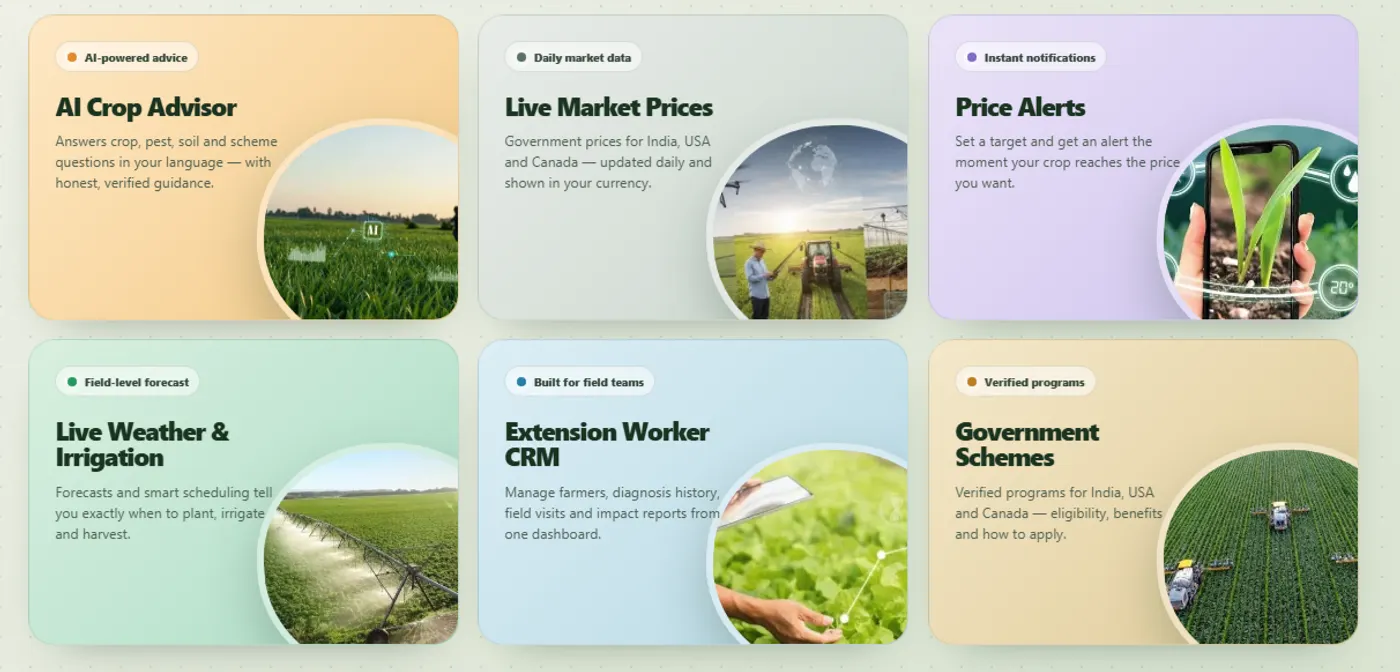
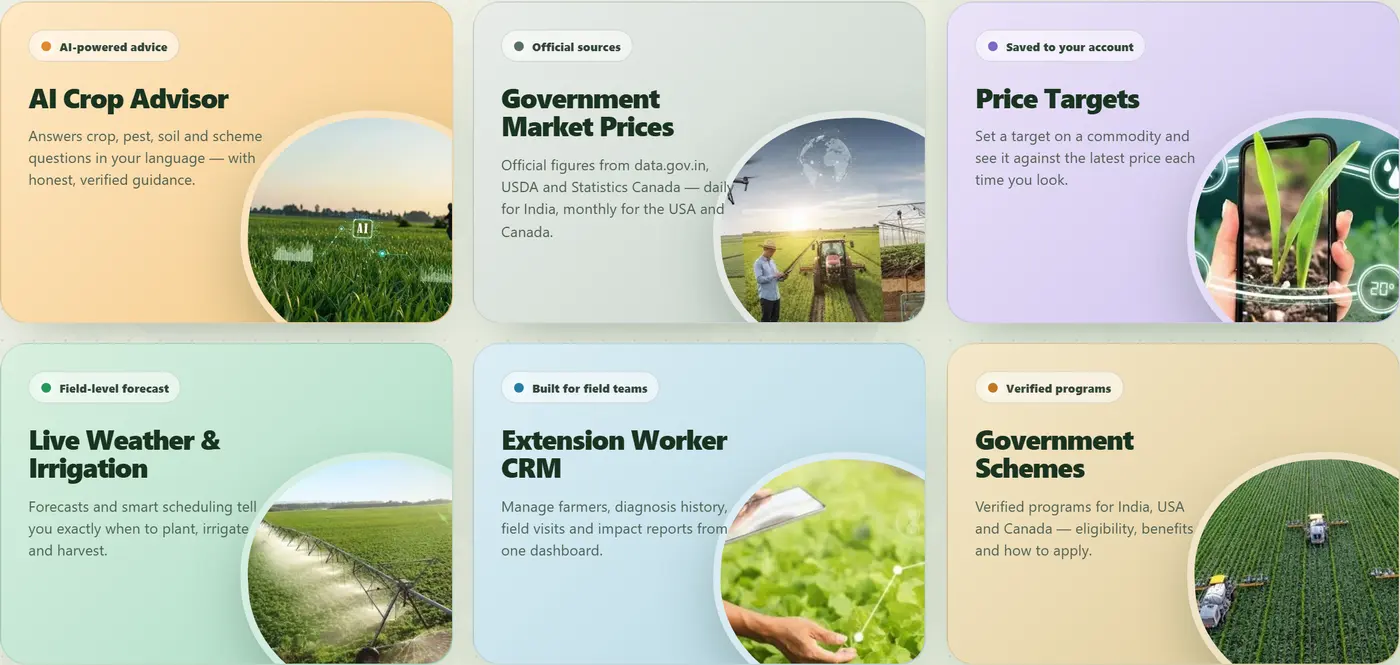
Retake the investors feature grid, and revert my wrong 13 -> 14 language change
Two things, one of them undoing a mistake I shipped this morning.

The feature grid. The investors page showed a September screenshot of
yieldaiglobal.com whose second card read "Live Market Prices", with the chip
"Daily market data" and the body line "Government prices for India, USA and Canada
- updated daily and shown in your currency." That was the last surviving copy of the
claim the newsletter has already retracted, stated more strongly than any text
version, in front of investors.

It could not be fixed by editing the image or rebuilding the cards in HTML. The
caption under it says both images are screenshots of yieldaiglobal.com and "not a
mockup made for this page", so retouching the pixels or hand-building a replacement
would have turned a truthful caption into a false one. Fabricating cleaner evidence
is worse than the claim it would have hidden.

The actual fix was upstream and already done: yieldaiglobal.com now renders that card
as "Government Market Prices", chip "Official sources", body "Official figures from
data.gov.in, USDA and Statistics Canada - daily for India, monthly for the USA and
Canada." So this retakes the screenshot at 1512x950 @2x and replaces the asset. The
card is now correct and states the cadence per country.

Knock-on edits: the grid is 1400x665 rather than 1400x672; the alt text named "Live
Market Prices" and "Price Alerts", where the product now says "Government Market
[…]

diff --git a/app/investors/page.tsx b/app/investors/page.tsx
@@ -546,9 +546,9 @@ export default function InvestorsPage() {
                 src="/images/investors/product-features.webp"
                 srcSet="/images/investors/product-features-800.webp 800w, /images/investors/product-features.webp 1400w"
                 sizes="(max-width: 1024px) 100vw, 60vw"
-                alt="The YieldAI Global feature set: AI Crop Advisor, Live Market Prices, Price Alerts, Live Weather and Irrigation, Extension Worker CRM, and Government Schemes"
+                alt="The YieldAI Global feature set as shown on yieldaiglobal.com: AI Crop Advisor, Government Market Prices (daily for India, monthly for the USA and Canada), Price Targets, Live Weather and Irrigation, Extension Worker CRM, and Government Schemes"
                 width={1400}
-                height={672}
+                height={665}
                 loading="lazy"
                 decoding="async"
                 className="w-full object-cover"
@@ -565,8 +565,9 @@ export default function InvestorsPage() {
               <a href="https://yieldaiglobal.com" target="_blank" rel="noopener noreferrer" className="font-medium text-brand-primary underline-offset-2 hover:underline">
                 yieldaiglobal.com
               </a>{' '}
-              taken in September 2026. They are the product&rsquo;s own published presentation, not an in-app recording
-              and not a mockup made for this page.
+              &mdash; the phone in September 2026, the feature grid in November 2026. They are the product&rsquo;s own
+              published presentation, not an in-app recording and not a mockup made for this page. The feature grid was
+              retaken because the product site corrected a capability title after the first capture.
             </p>
           </Reveal>
         </div>

diff --git a/.agents/product-marketing.md b/.agents/product-marketing.md
@@ -66,7 +66,7 @@
 - **It refuses.** Ask about chemical dosage and it declines, routing you to a local extension officer instead of guessing. A confident wrong answer can cost someone a season.
 - **Confidence levels, not verdicts.** CropVision returns the likely disease with how sure it is, rather than one unexplained answer.
 - **Official price sources, named.** mandi data (India), USDA (USA), StatCan (Canada) — not scraped aggregates.
-- **14 languages, built for a weak connection.** Designed for a mid-range Android phone, and for someone reading their second language.
+- **13 languages, built for a weak connection.** Designed for a mid-range Android phone, and for someone reading their second language.
 - **Publishes what is not true yet.** The site carries a page headed "YieldAI Global is not in Ireland yet" rather than a waitlist.
 
 **Why customers choose us:** It is the one that will tell you when it does not know.
@@ -115,7 +115,7 @@
 **Personality:** Honest, grounded, self-correcting, practical, unflashy
 
 ## Proof Points
-**Metrics:** 17 platform modules · 14 languages · live in 3 countries · 23 published guides
+**Metrics:** 17 platform modules · 13 languages · live in 3 countries · 23 published guides
 
 **Customers:** **GAP** — no named customers or logos yet
 
@@ -127,7 +127,7 @@
 | Grounded, not guessed | ICAR, FAO, state agriculture department sources |
 | Official prices | mandi, USDA, StatCan named explicitly |
 | Knows its limits | Declines dosage questions; publishes a "not in Ireland yet" page |
-| Actually reachable | 14 languages; built for mid-range Android on a weak connection |
+| Actually reachable | 13 languages; built for mid-range Android on a weak connection |
 
 ## Goals
 **Business goal:** Paid subscribers in the three live markets
@@ -138,5 +138,5 @@
 
 ## Changelog
 *Newest first. One line per revision: what changed and why.*
-- v2 (2026-11-09) — Corrected two stale facts that were propagating into generated marketing copy from this file. "live government market prices" dropped the word "live" in the one-liner and the What it does paragraph: only India's Agmarknet feed is daily, while USDA NASS and Statistics Canada are monthly. Language count corrected from 13 to 14 in three places, matching public/llms.txt (English plus 13 translations).
+- v2 (2026-11-09) — Corrected two stale facts that were propagating into generated marketing copy from this file. "live government market prices" dropped the word "live" in the one-liner and the What it does paragraph: only India's Agmarknet feed is daily, while USDA NASS and Statistics Canada are monthly. Language count was briefly changed 13 -> 14 here and reverted the same day: the live product at yieldaiglobal.com states 13 languages in four places and its switcher offers exactly 13, with no Portuguese. public/llms.txt claims 14 by counting a Portuguese catalogue the product does not offer, so llms.txt and the site are the ones that are wrong.
 - v1 (2026-09-16) — Initial context, auto-drafted from repo product/blog/README data for Instagram content work. Customer verbatims, testimonials and usage metrics left as explicit GAPs rather than invented.

diff --git a/README.md b/README.md
@@ -306,7 +306,7 @@ Kept here so copy stays consistent across the site.
 - **Headquarters:** Detroit, Michigan, USA
 - **Founded:** May 2026 by Vijesh Reddy Golamari (sole founder — no co-founders)
 - **Flagship product:** YieldAI Global — live in India, the USA and Canada
-- **Platform:** 17 modules · 14 languages
+- **Platform:** 17 modules · 13 languages
 - **Pricing:** 30-day free trial, then $9.99/month
 - **Market data sources:** mandi (India), USDA (USA), StatCan (Canada)
 - **Agronomy grounding:** ICAR, FAO, state agriculture departments
